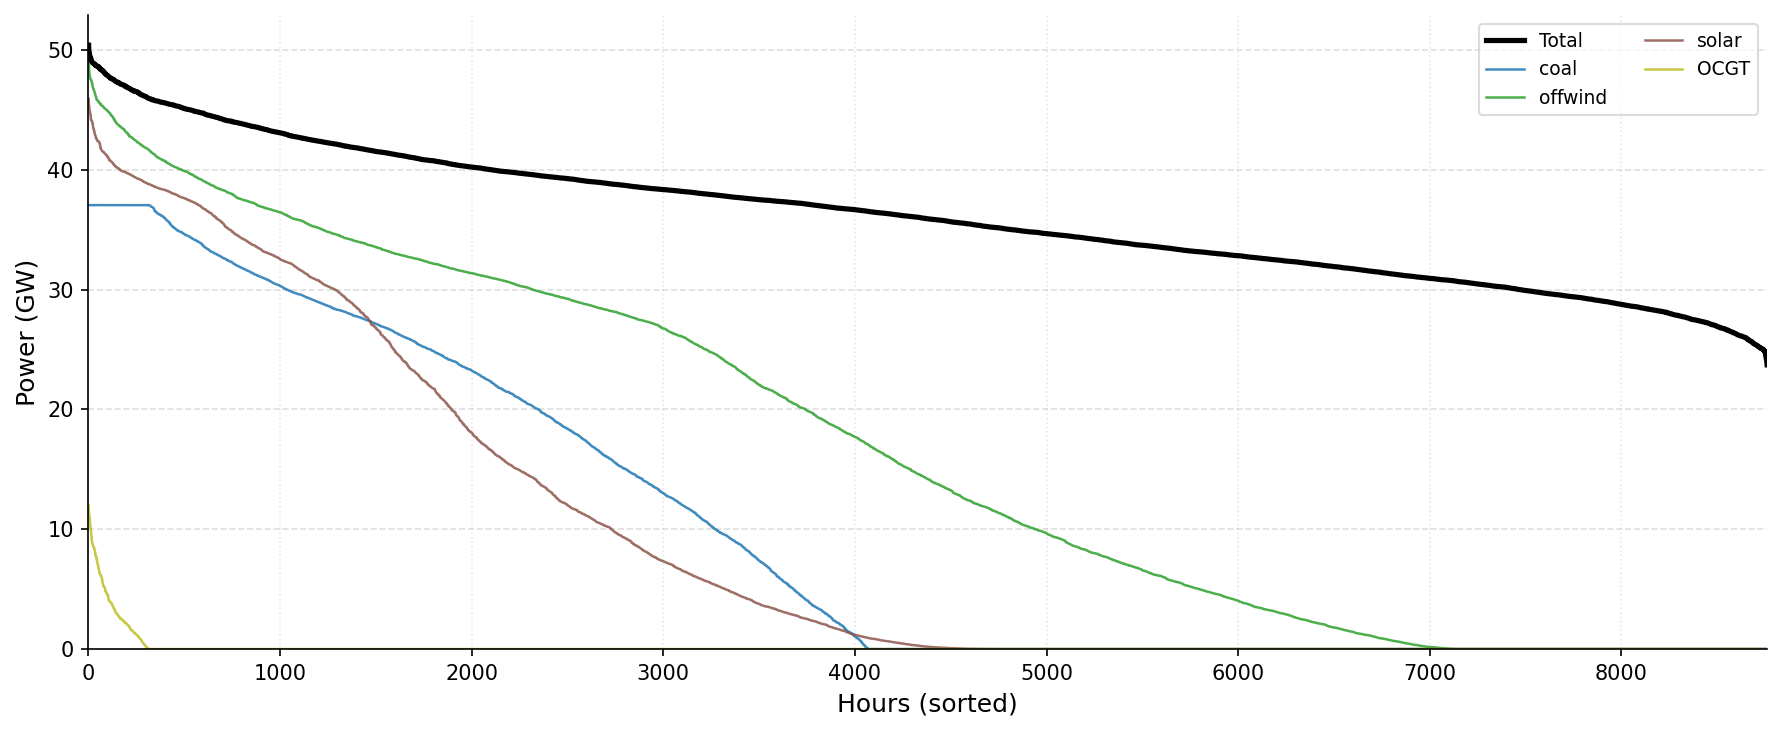
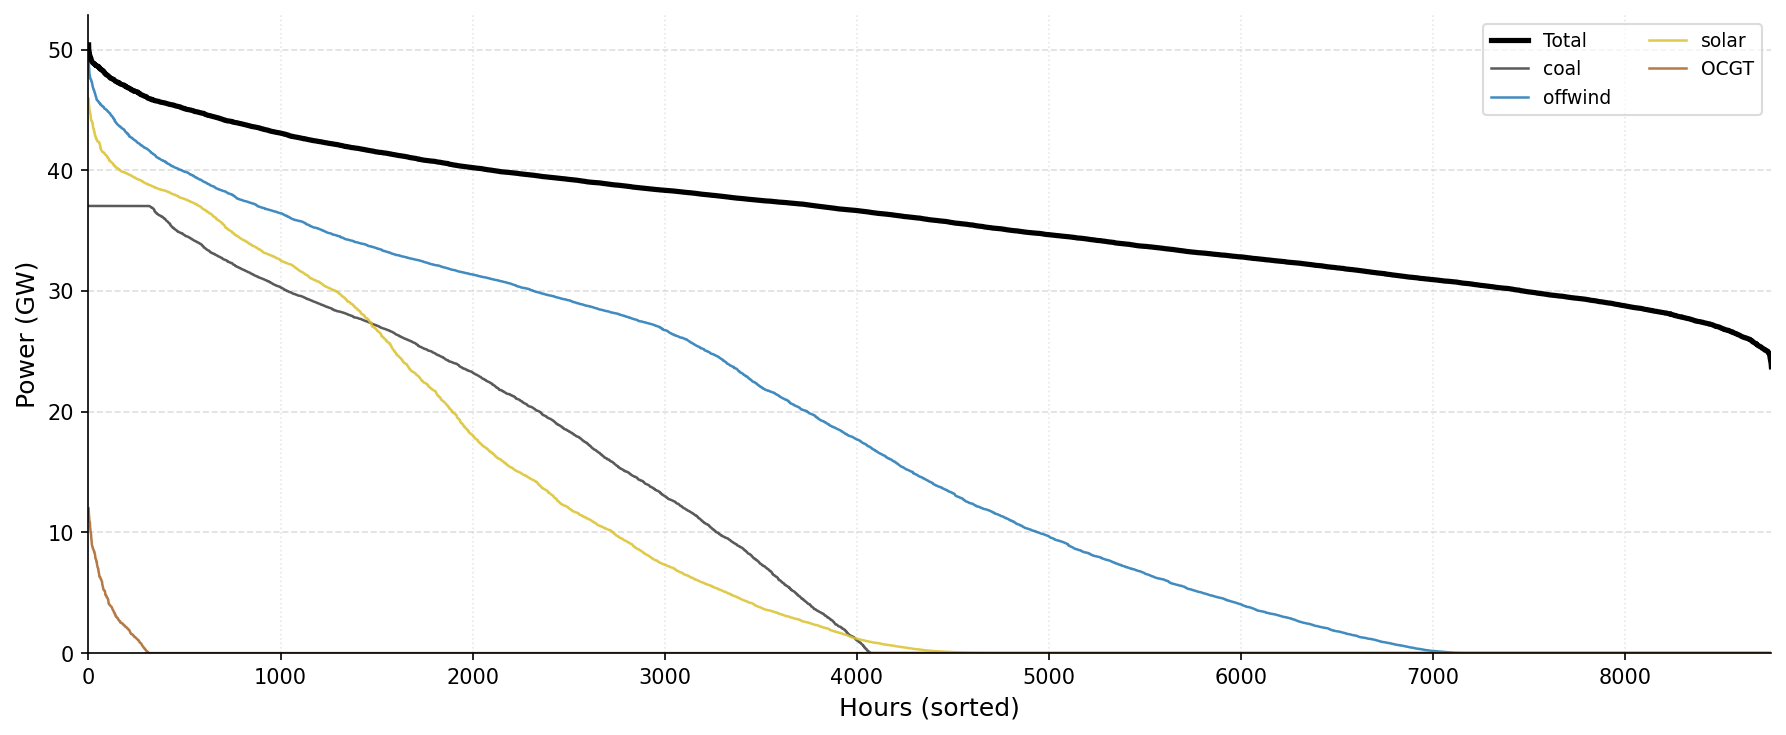
fixed colors and capacity plot

diff --git a/src/visualizer.py b/src/visualizer.py
@@ -52,16 +52,17 @@ class Visualizer:
                 self.LABEL_MAP[key] = value
 
         self.TECH_COLORS = {
-            "CCGT":           "#e07b3b",
-            "Nuclear":        "#9467bd",
-            "Biomass CHP":    "#2ca02c",
-            "Solar":          "#f4e04d",
-            "Onshore Wind":   "#74c0e0",
-            "Offshore Wind":  "#1f77b4",
+            "CCGT":           "#e96f23",
+            "OCGT":           "#a86326",
+            "nuclear":        "#9467bd",
+            "biomass CHP":    "#2ca02c",
+            "solar":          "#dbc12b",
+            "onwind":         "#74c0e0",
+            "offwind":        "#1f77b4",
             "Pumped Storage": "#8c564b",
             "Hydro":          "#17becf",
-            "Oil":            "#d62728",
-            "Coal":           "#8c564b",
+            "oil":            "#d62728",
+            "coal":           "#3D3D3D",
         }
 
     def _make_path(self, default_name: str) -> str:
@@ -122,8 +123,8 @@ class Visualizer:
             Start of the winter week (inclusive).
         """
         colors = [
-            cm.tab10(i / len(self.dispatch_series_dict))
-            for i in range(len(self.dispatch_series_dict))
+            self.TECH_COLORS.get(self._get_label(key), cm.tab10(i / len(self.dispatch_series_dict)))
+            for i, key in enumerate(self.dispatch_series_dict.keys())
         ]  # create colors dynamically
         end_summer = start_summer + pd.Timedelta(days=7)
         end_winter = start_winter + pd.Timedelta(days=7)
@@ -159,7 +160,7 @@ class Visualizer:
                     series.values / 1000,  # Convert MWh to GWh
                     label=self._get_label(label),
                     color=color,
-                    linewidth=1.4,
+                    linewidth=1.8,
                     alpha=0.9,
                 )
             axes[idx].set_ylabel("Dispatch (GWh)", fontsize=13)  # CHANGED: MWh -> GWh
@@ -182,7 +183,7 @@ class Visualizer:
         # CHANGED: replaced per-subplot legend with single shared figure legend
         handles, labels = axes[0].get_legend_handles_labels()
         fig.legend(handles, labels, loc="lower center", ncol=len(handles),
-                fontsize=12, framealpha=0.7, bbox_to_anchor=(0.5, -0.08))
+                fontsize=16, framealpha=0.7, bbox_to_anchor=(0.5, -0.08))
 
         plt.savefig(self._make_path("dispatch_summer_winter"), dpi=150, bbox_inches="tight")
         plt.close()
@@ -386,6 +387,34 @@ class Visualizer:
             if country not in country_capacities:
                 country_capacities[country] = {}
             country_capacities[country][su] = cap
+
+        # links: only those whose bus1 is an electricity bus
+        for link in self.network.links.index:
+            bus1 = self.network.links.loc[link, "bus1"]
+            bus1_name = bus1.replace("bus_", "")
+            if "_" not in bus1_name:  # excludes heat, ch4 buses
+                cap = self.network.links.loc[link, "p_nom_opt"]
+                if cap <= 0:
+                    continue
+                parts = link.split("_")
+                try:
+                    type_idx = next(i for i, p in enumerate(parts) if p in ("disp", "vol", "storage"))
+                    remainder = parts[type_idx + 1:]
+                    known_countries = [b.replace("bus_", "") for b in self.network.buses.index]
+                    country = ""
+                    for i in range(1, len(remainder)):
+                        candidate = "_".join(remainder[:i])
+                        if candidate in known_countries:
+                            country = candidate
+                            break
+                except StopIteration:
+                    country = "unknown"
+
+                if not country:
+                    country = "unknown"
+                if country not in country_capacities:
+                    country_capacities[country] = {}
+                country_capacities[country][link] = cap
 
         countries = list(country_capacities.keys())
 
